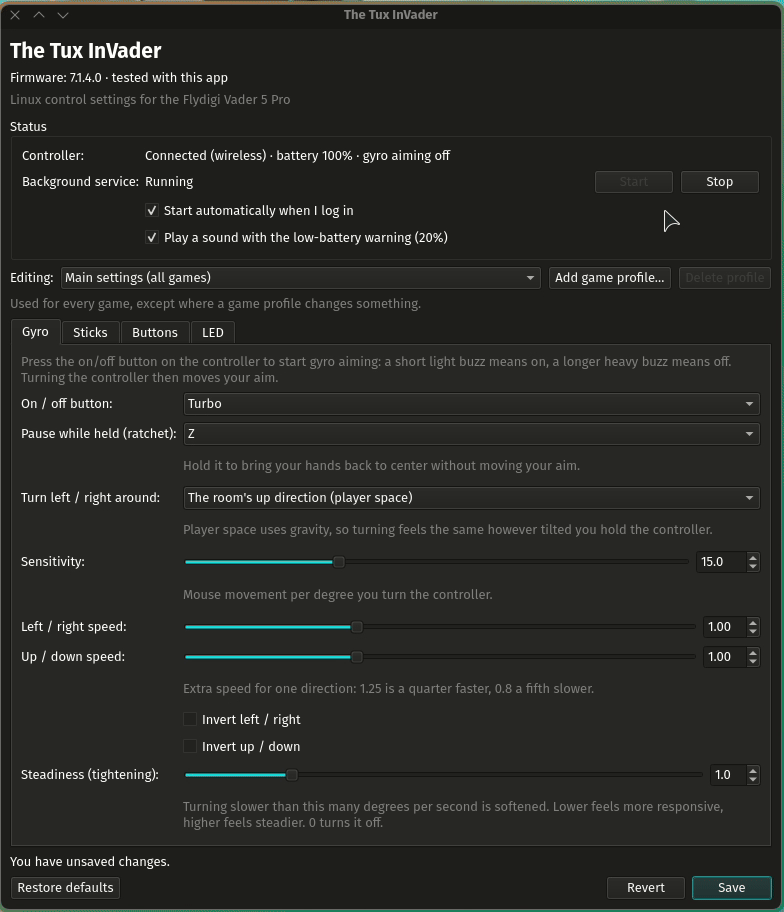
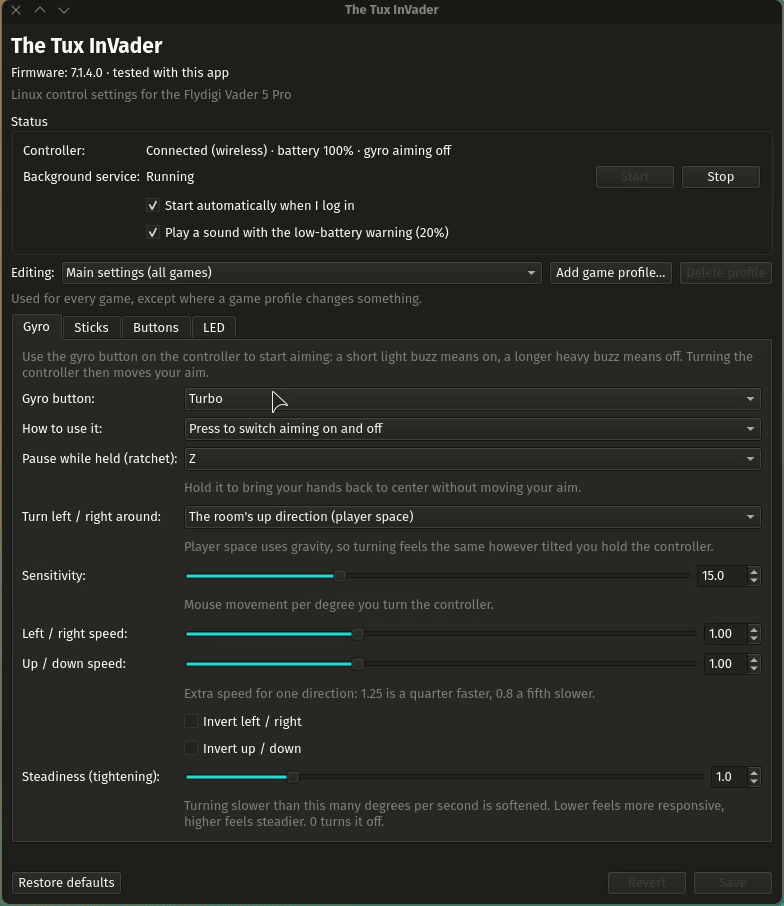
Refresh the README picture and demo for 0.5.0
The screenshot shows the renamed gyro rows, and the demo clip now lives on
the v0.5.0 release instead of an upload that only works on github.com.

Changed region(s): [[0.0, 0.0, 1.0, 1.0], [0.6735, 0.2781, 0.8571, 0.3091], [0.8878, 0.1854, 0.949, 0.2163]]

diff --git a/README.md b/README.md
@@ -1,8 +1,8 @@
 # The Tux InVader
 
-![The Tux InVader settings window: firmware and controller status at the top, and the Gyro tab with the on/off button, ratchet, turn space and sensitivity settings](docs/screenshot.png)
+![The Tux InVader settings window: firmware and controller status at the top, and the Gyro tab with the gyro button, how to use it, ratchet, turn space and sensitivity settings](docs/screenshot.png)
 
-[A short demo of the settings window](https://github.com/user-attachments/assets/3883975e-5936-4cb4-adc9-a7a506bdca1a) (36 s)
+[A short demo of the settings window](https://github.com/TJLawInOrbit/tux-invader/releases/download/v0.5.0/tux-invader-demo.gif) (45 s)
 
 Linux control settings for the Flydigi Vader 5 Pro.
 
